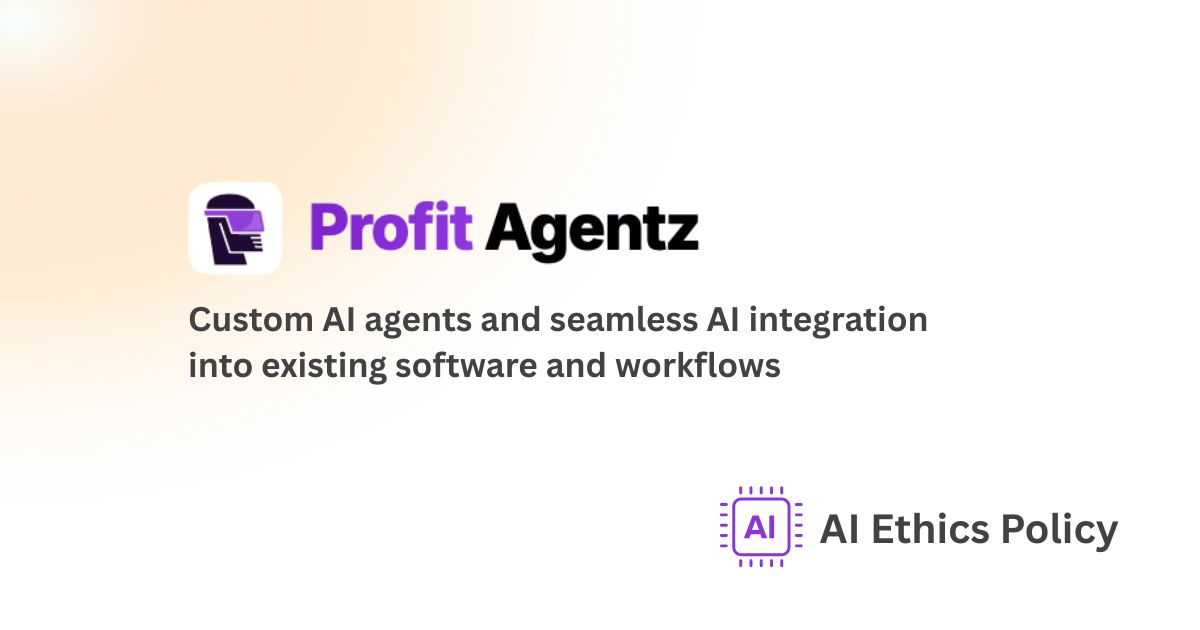
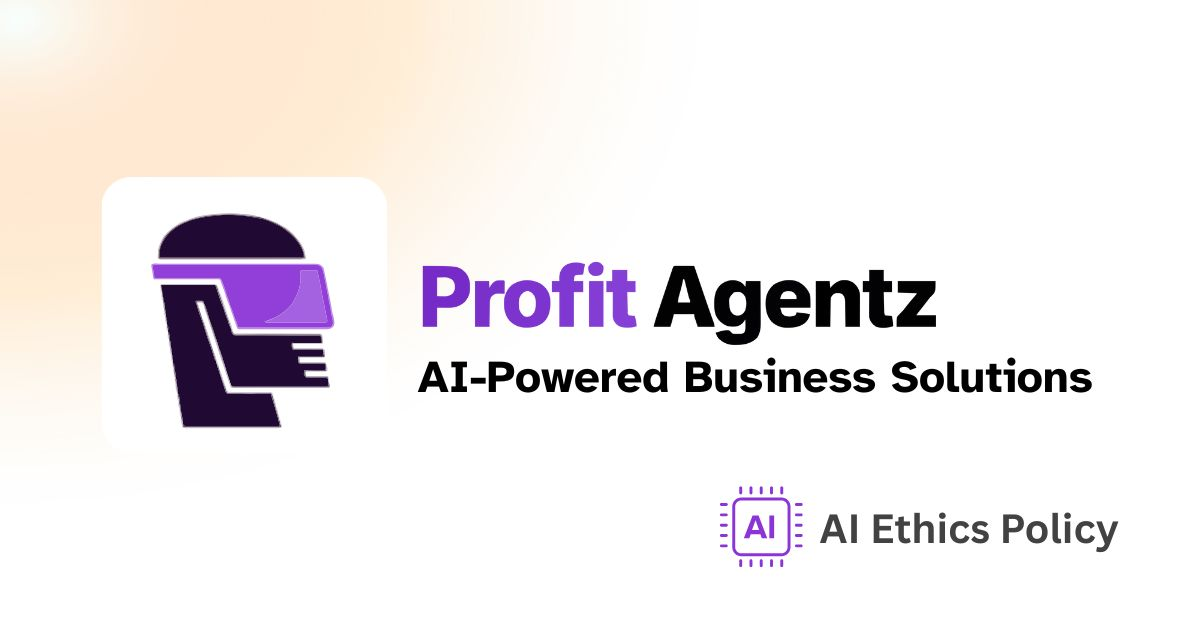
improved ui + og image fix

Changed region(s): [[0.0617, 0.2714, 0.925, 0.6937]]

diff --git a/components/HomeContent.tsx b/components/HomeContent.tsx
@@ -112,13 +112,13 @@ const HomeContent: React.FC = () => {
 
   <div className={`absolute top-1/4 -left-20 w-[280px] h-[280px] sm:w-[380px] sm:h-[380px] rounded-full blur-[90px] sm:blur-[110px] ${
     isDark 
-      ? "bg-purple-400/30 opacity-30" 
-      : "bg-purple/30 opacity-40"
+      ? "bg-purple-400/30 opacity-60" 
+      : "bg-purple/30 opacity-50"
   }`} />
   <div className={`absolute bottom-1/4 -right-20 w-[280px] h-[280px] sm:w-[380px] sm:h-[380px] rounded-full blur-[90px] sm:blur-[110px] ${
     isDark 
-      ? "bg-purple-400/20 opacity-20" 
-      : "bg-purple/20 opacity-30"
+      ? "bg-purple-400/20 opacity-60" 
+      : "bg-purple/30 opacity-50"
   }`} />
   
   <div className="max-w-6xl mx-auto text-center fade-in px-3">
@@ -131,8 +131,8 @@ const HomeContent: React.FC = () => {
     </div>
     <h1 className={`text-3xl sm:text-4xl md:text-5xl lg:text-6xl font-extrabold leading-[1.05] tracking-tight mb-5 pb-2 sm:mb-7 bg-gradient-to-r bg-clip-text text-transparent ${
       isDark 
-        ? "from-purple-200 via-purple-300 to-purple-400" 
-        : "from-purple-900 via-purple-700 to-purple-500"
+        ? "from-purple-100 via-purple-200 to-purple-400" 
+        : "from-purple-900 via-purple-800 to-purple-500"
     }`}>
       Supercharge Profits <br className="hidden md:block" /> with AI Agents
     </h1>
@@ -204,11 +204,11 @@ const HomeContent: React.FC = () => {
               key={i}
               className={`text-lg sm:text-2xl md:text-3xl font-bold mx-6 sm:mx-9 uppercase tracking-tighter ${
                 isDark 
-                  ? "text-slate-300"  // Lighter gray for dark theme
-                  : "text-slate-400"  // Normal for light theme
+                  ? "text-slate-600"  // Lighter gray for dark theme
+                  : "text-slate-300"  // Normal for light theme
               }`}
             >
-              {spec} <span className={`ml-2 sm:ml-3 ${
+              {spec} <span className={`ml-2 font-black sm:ml-3 ${
                 isDark ? "text-purple-400" : "text-purple-600"
               }`}>•</span>
             </span>

diff --git a/components/Navbar.tsx b/components/Navbar.tsx
@@ -164,7 +164,7 @@ const Navbar = () => {
               <Link
                 href="/contact"
                 onClick={() => setIsOpen(false)}
-                className="block w-full text-center py-3 sm:py-4 rounded-xl font-bold text-base sm:text-lg text-white transition-all duration-300 hover:shadow-xl active:scale-95 bg-gradient-to-r from-purple-600 to-purple-500 hover:from-purple-500 hover:to-purple-400 shadow-lg shadow-purple-500/30 hover:shadow-purple-500/40"
+                className="block w-full text-center py-3 sm:py-4 rounded-xl font-bold text-base sm:text-lg text-white transition-all duration-300 hover:shadow-xl active:scale-95 bg-gradient-to-r from-purple-700 to-purple-600 hover:from-purple-600 hover:to-purple-500 shadow-lg shadow-purple-500/30 hover:shadow-purple-500/40"
               >
                 Get Custom Agent →
               </Link>
